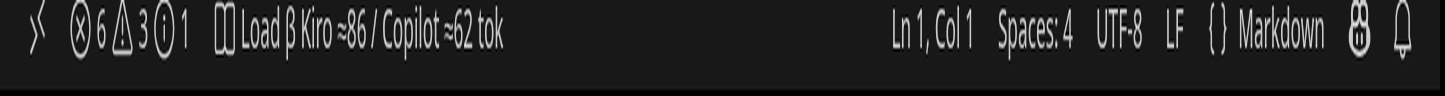
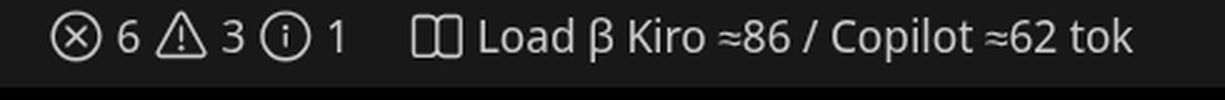
Version Up(v1.1.1)

Changed region(s): [[0.0, 0.0, 0.9927, 0.625], [0.0, 0.8125, 1.0, 0.9375]]

diff --git a/README.md b/README.md
@@ -1,6 +1,6 @@
 # SkillMap-Solo
 
-[![Version](https://img.shields.io/badge/version-v1.1.0-blue.svg)](package.json)
+[![Version](https://img.shields.io/badge/version-v1.1.1-blue.svg)](package.json)
 [![Visual Studio Marketplace](https://vsmarketplacebadges.dev/version/masanori-satake.skillmap-solo.svg?label=Marketplace&color=blue)](https://marketplace.visualstudio.com/items?itemName=masanori-satake.skillmap-solo)
 [![Open VSX](https://img.shields.io/open-vsx/v/masanori-satake/skillmap-solo?label=Open%20VSX)](https://open-vsx.org/extension/masanori-satake/skillmap-solo)
 [![GitHub release (latest by date)](https://img.shields.io/github/v/release/masanori-satake/SkillMap-Solo)](https://github.com/masanori-satake/SkillMap-Solo/releases)
@@ -18,7 +18,7 @@
 
 AI context files are scattered and related: a SKILL.md points to references, references point to steering docs, and each tool (Kiro, GitHub Copilot) loads a different subset. When nobody sees the whole picture, upkeep lapses and output quality quietly degrades. SkillMap makes the structure, the token cost, and the best-practice gaps visible — and every warning comes with a **Tip** that explains why it matters and how to fix it, so you learn while you practise.
 
-Current version: **v1.1.0**
+Current version: **v1.1.1**
 
 ---
 
@@ -79,7 +79,7 @@ Current version: **v1.1.0**
 
 #### From a VSIX file
 
-1. Download `skillmap-solo-1.1.0.vsix` from [GitHub Releases](https://github.com/masanori-satake/SkillMap-Solo/releases)
+1. Download `skillmap-solo-1.1.1.vsix` from [GitHub Releases](https://github.com/masanori-satake/SkillMap-Solo/releases)
 2. In VS Code, open the Command Palette (`Ctrl+Shift+P` / `Cmd+Shift+P`)
 3. Run **Extensions: Install from VSIX...** and select the file
 
@@ -195,7 +195,7 @@ MIT License - see the [LICENSE](LICENSE) file for details.
 
 AI コンテキストファイルは散在し、関係し合っています。SKILL.md が references を指し、references が Steering を指し、そしてツール（Kiro、GitHub Copilot）ごとに読み込む範囲が違います。全体像が見えないと保守が後回しになり、出力の精度は静かに落ちていきます。SkillMap は構造と読み込みコストとベストプラクティスからのズレを見える化し、すべての警告に「なぜ問題か＋直し方」の **Tips** を付けます。実践しながら理解できることが、この拡張機能の核です。
 
-現在のバージョン: **v1.1.0**
+現在のバージョン: **v1.1.1**
 
 ---
 
@@ -256,7 +256,7 @@ AI コンテキストファイルは散在し、関係し合っています。SK
 
 #### VSIX ファイルから
 
-1. [GitHub Releases](https://github.com/masanori-satake/SkillMap-Solo/releases) から `skillmap-solo-1.1.0.vsix` をダウンロードする
+1. [GitHub Releases](https://github.com/masanori-satake/SkillMap-Solo/releases) から `skillmap-solo-1.1.1.vsix` をダウンロードする
 2. コマンドパレット（`Ctrl+Shift+P` / `Cmd+Shift+P`）を開く
 3. **Extensions: Install from VSIX...** を実行し、ファイルを選ぶ
 

diff --git a/CHANGELOG.md b/CHANGELOG.md
@@ -2,6 +2,11 @@
 
 "SkillMap-Solo" 拡張機能のすべての注目すべき変更はこのファイルに記録されます。
 
+## [1.1.1] - 2026-11-03
+
+### 修正 (Fixed)
+- **README の英語スクリーンショットの見た目を修正**: ステータスバー画像の縦横比の歪み（縦方向だけ拡大していた）を等倍率に直し、要点部分のみの切り出しに変更。ツリー画像も他の画像と表示幅が揃うよう拡大した
+
 ## [1.1.0] - 2026-11-03
 
 ### 追加 (Added)
